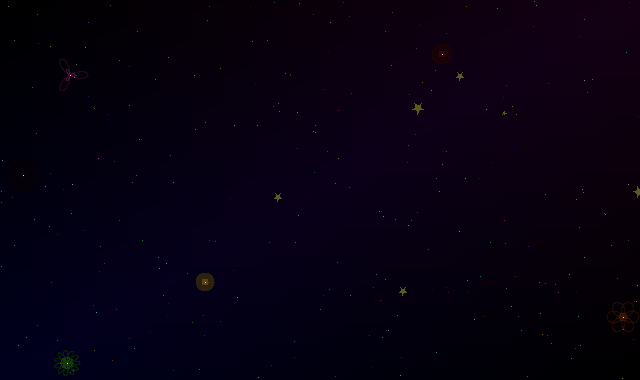
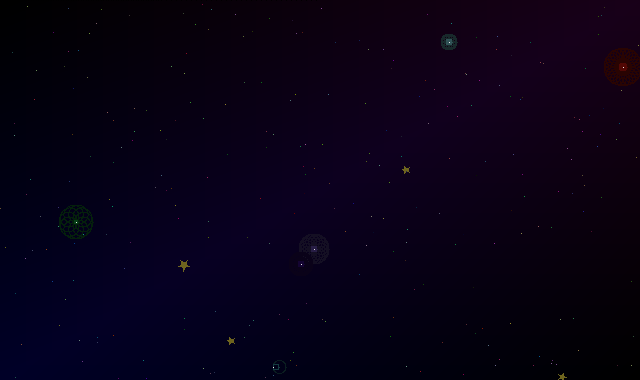
update image

diff --git a/src/draw_art.cpp b/src/draw_art.cpp
@@ -7,17 +7,12 @@ int main(int argc, char** argv)
 {
    Canvas drawer(640, 380);
    drawer.background(0,0,0);
-   drawer.color(100,20,200);
-   drawer.ngon(300,200,100,-3);
-   drawer.save("something.png");
-   return 0;
-   drawer.begin(TRIANGLES);
 
-   ///
-   drawer.color(20, 0, 20);
+   drawer.begin(TRIANGLES);
+   drawer.color(25, 0, 25);
    drawer.vertex(640, 380);
 
-   drawer.color(0, 0, 30);
+   drawer.color(0, 0, 40);
    drawer.vertex(0, 380);
    
    drawer.color(0,0,0);
@@ -28,10 +23,10 @@ int main(int argc, char** argv)
    drawer.color(0, 0, 0);
    drawer.vertex(0, 380);
 
-   drawer.color(20, 0, 20);
+   drawer.color(25, 0, 25);
    drawer.vertex(640, 0);
 
-   drawer.color(0, 0, 30);
+   drawer.color(0, 0, 40);
    drawer.vertex(0, 0);
    drawer.end();
 
@@ -52,10 +47,10 @@ int main(int argc, char** argv)
       drawer.color(2*r,2*g,2*b);
       drawer.rose(x,y, 2 + (rand()%5),n,d);
       
-      drawer.color(220,220,220);
+      drawer.color(230,230,230);
       drawer.vertex(x,y);
 
-      drawer.color(90,90,30);
+      drawer.color(110,100,30);
       drawer.star(rand()%640,rand()%380,rand()%4);
    }
    for(int i=0;i<250;i++){
